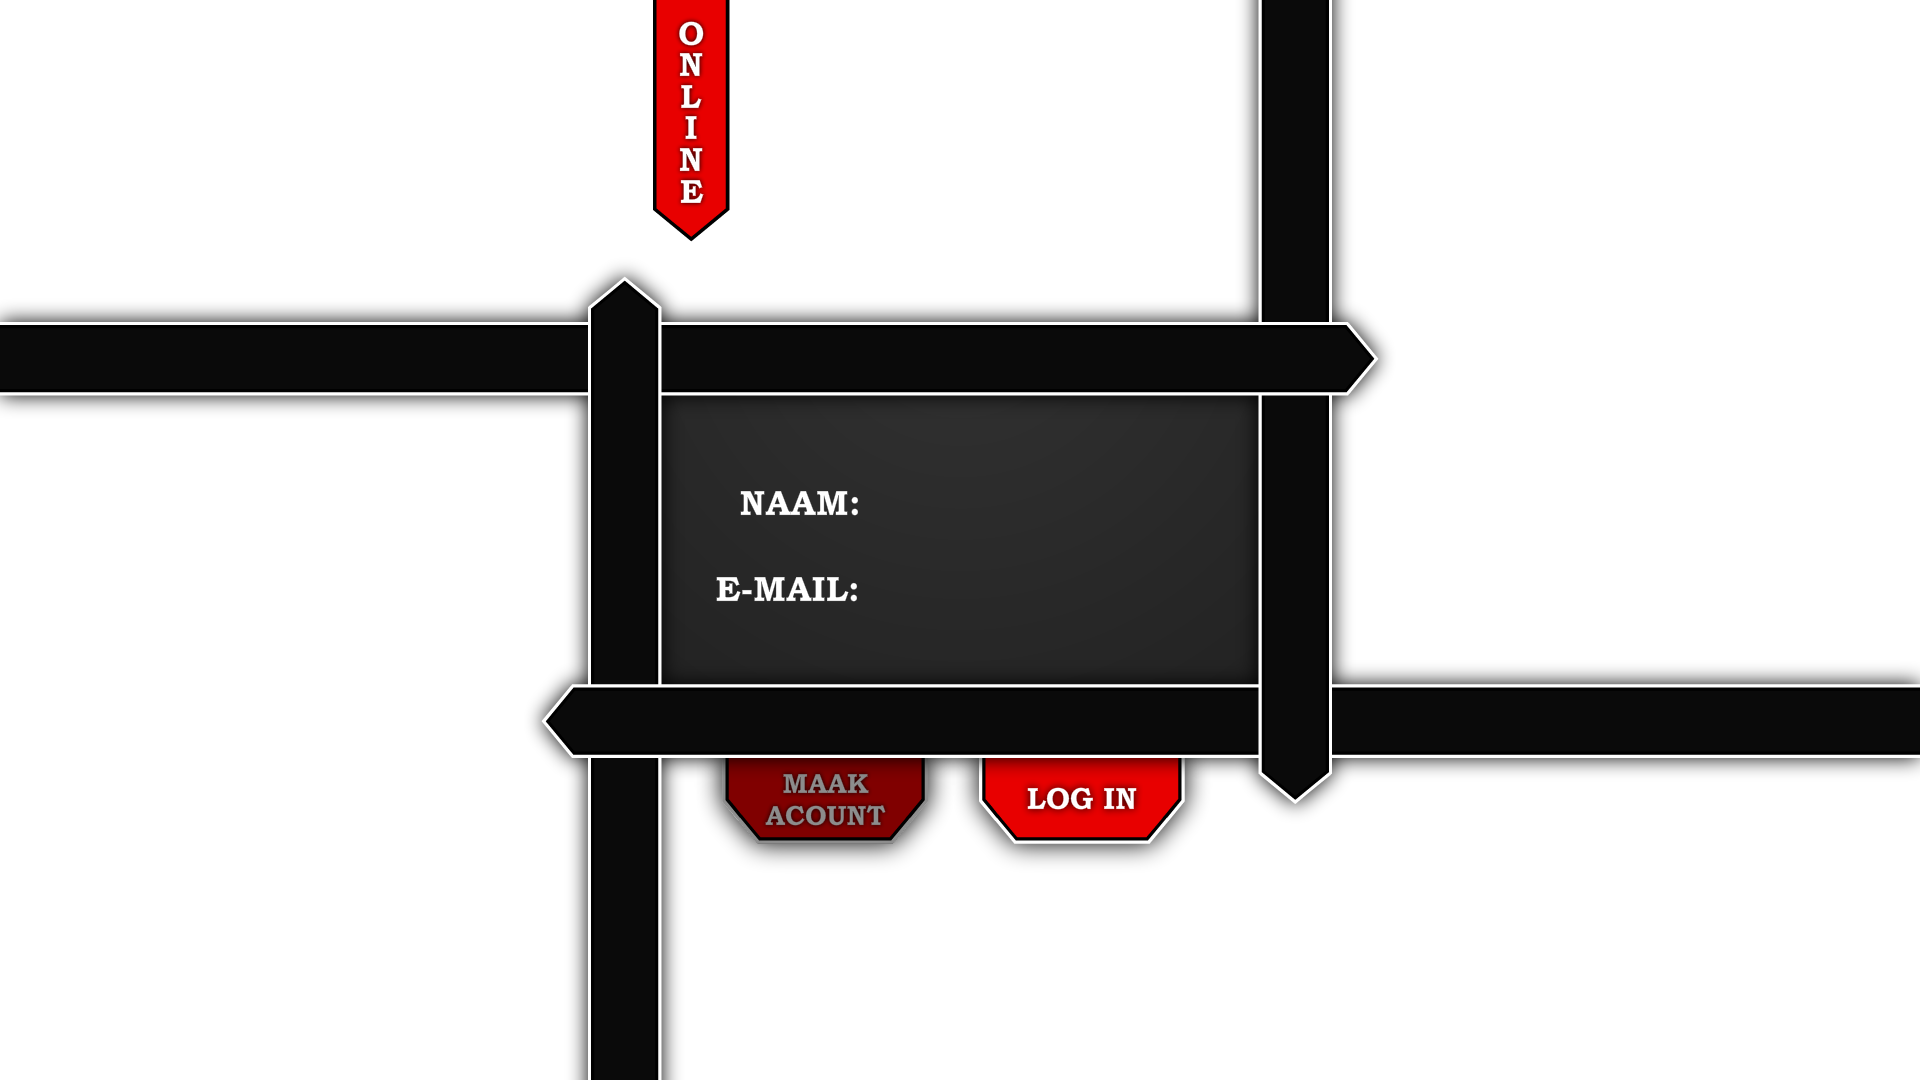
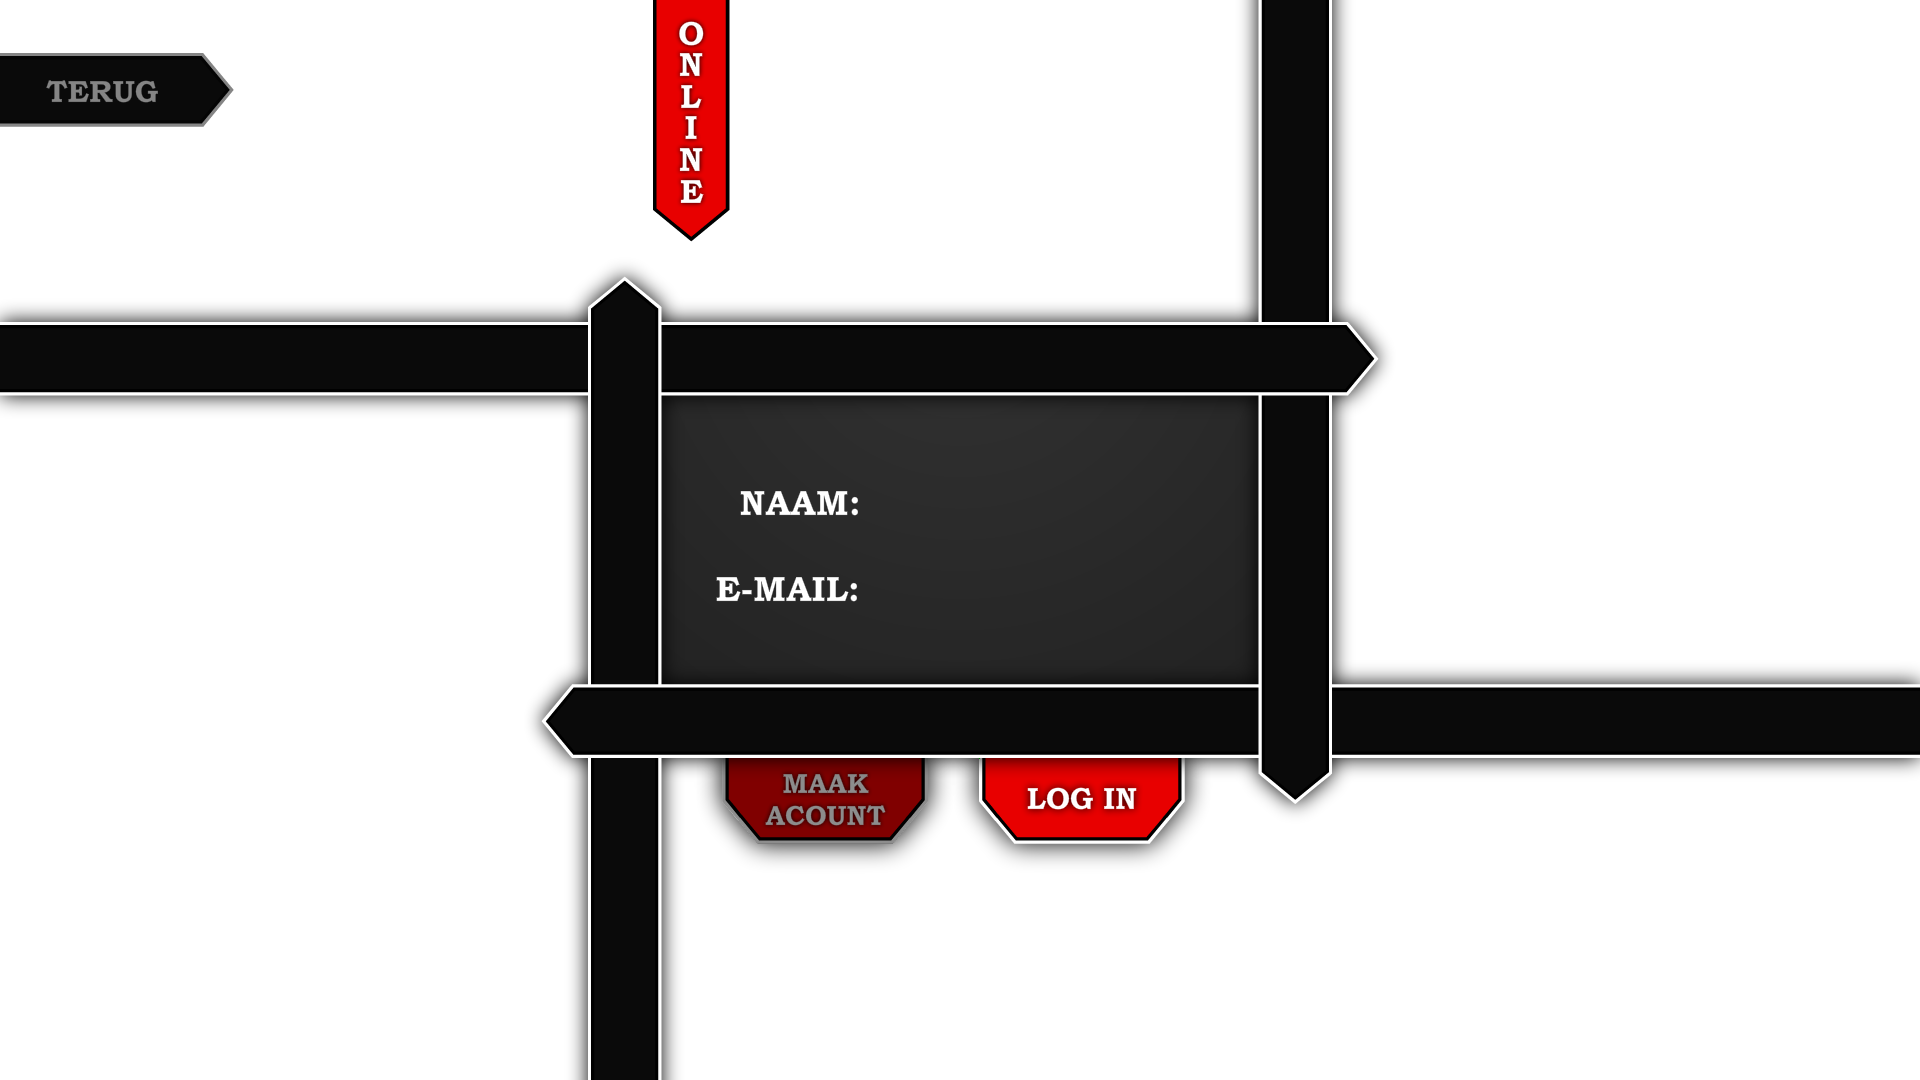
Terug knoppen werken
Denk ik.

Changed region(s): [[0.0, 0.0306, 0.125, 0.1222]]

diff --git a/Online.cs b/Online.cs
@@ -21,12 +21,14 @@ namespace CyberPesten
         TextBox maakAccountTextbox2 = new TextBox();
         Label maakAccountLabel1 = new Label();
         string CP;
-        Bitmap inlogMenu, login, maakAccount;
-        Rectangle loginButton, maakAccountButton;
-        bool loginHover, maakAccountHover;
+        Bitmap inlogMenu, login, maakAccount, terug;
+        Rectangle loginButton, maakAccountButton, terugButton;
+        bool loginHover, maakAccountHover, terugHover;
         float verhouding;
         Font arial;
-        public inlogScherm()
+        Form menuBack;
+
+        public inlogScherm(Form _menu)
         {
             String bericht;
             string GNF = Path.Combine(Environment.GetFolderPath(Environment.SpecialFolder.ApplicationData),"Guido&Friends");
@@ -39,13 +41,16 @@ namespace CyberPesten
             DoubleBuffered = true;
             verhouding = System.Windows.Forms.Screen.PrimaryScreen.Bounds.Width / BackgroundImage.Width;
             arial = new Font("Arial", (int)(15 * verhouding));
+            menuBack = _menu;
 
             inlogMenu = new Bitmap((Image)CyberPesten.Properties.Resources.ResourceManager.GetObject("online_menu"));
             login = new Bitmap((Image)CyberPesten.Properties.Resources.ResourceManager.GetObject("login_select"));
             maakAccount = new Bitmap((Image)CyberPesten.Properties.Resources.ResourceManager.GetObject("maak_account_select"));
+            terug = new Bitmap((Image)CyberPesten.Properties.Resources.ResourceManager.GetObject("Terug_button"));
 
             loginButton = new Rectangle((int)(979 * verhouding), (int)(758 * verhouding), (int)(205 * verhouding), (int)(86 * verhouding));
             maakAccountButton = new Rectangle((int)(722 * verhouding), (int)(758 * verhouding), (int)(205 * verhouding), (int)(86 * verhouding));
+            terugButton = new Rectangle(0, (int)(verhouding * 53), (int)(verhouding * 234), (int)(verhouding * 74));
 
             this.Paint += this.buildMenu;
             this.MouseMove += this.hover;
@@ -147,15 +152,15 @@ namespace CyberPesten
                 //Controls.Add(maakAccountLabel1);
                 maakAccountTextbox1.Select();
             }
-            berichtHouder = new Label();
-            //berichtHouder.Text = bericht;
+            /*berichtHouder = new Label();
+            berichtHouder.Text = bericht;
             berichtHouder.Left = 30;
             berichtHouder.Top = 30;
             berichtHouder.Width = 1000;
             berichtHouder.Height = 200;
             berichtHouder.BackColor = Color.Transparent;
             berichtHouder.Font = new Font("Arial", 40);
-            Controls.Add(berichtHouder);
+            Controls.Add(berichtHouder);*/
 
             this.Show();
         }
@@ -310,6 +315,10 @@ namespace CyberPesten
             {
                 pea.Graphics.DrawImage(maakAccount, 0, 0, Screen.PrimaryScreen.Bounds.Width, Screen.PrimaryScreen.Bounds.Height);
             }
+            if (terugHover)
+            {
+                pea.Graphics.DrawImage(terug, 0, 0, Screen.PrimaryScreen.Bounds.Width, Screen.PrimaryScreen.Bounds.Height);
+            }
         }
 
         public void hover(object sender, MouseEventArgs mea)
@@ -332,6 +341,15 @@ namespace CyberPesten
                 maakAccountHover = false;
             }
 
+            if (terugButton.Contains(mea.Location))
+            {
+                terugHover = true;
+            }
+            else
+            {
+                terugHover = false;
+            }
+
             Invalidate();
         }
 
@@ -344,6 +362,11 @@ namespace CyberPesten
             else if (maakAccountHover)
             {
                 //Maak account
+            }
+            else if (terugHover)
+            {
+                menuBack.Show();
+                this.Close();
             }
         }
 

diff --git a/Menu.cs b/Menu.cs
@@ -16,8 +16,7 @@ namespace CyberPesten
         float verhouding; //De grootte van de plaatjes worden allemaal gebaseerd op de verhoudingen van de achtergrond
         Bitmap online, lokaal, settings, help, exit, fadedButtons, menuLogo;
         Rectangle onlineButton, lokaalButton, settingsButton, helpButton, exitButton;
-
-
+        
         public Menu()
         {
             Text = "CyberPesten: Menu";
@@ -156,7 +155,7 @@ namespace CyberPesten
         {
             if (onlineHover)
             {
-                Form veld = new inlogScherm();
+                Form veld = new inlogScherm(this);
                 this.Hide();
             }
             else if (lokaalHover)
